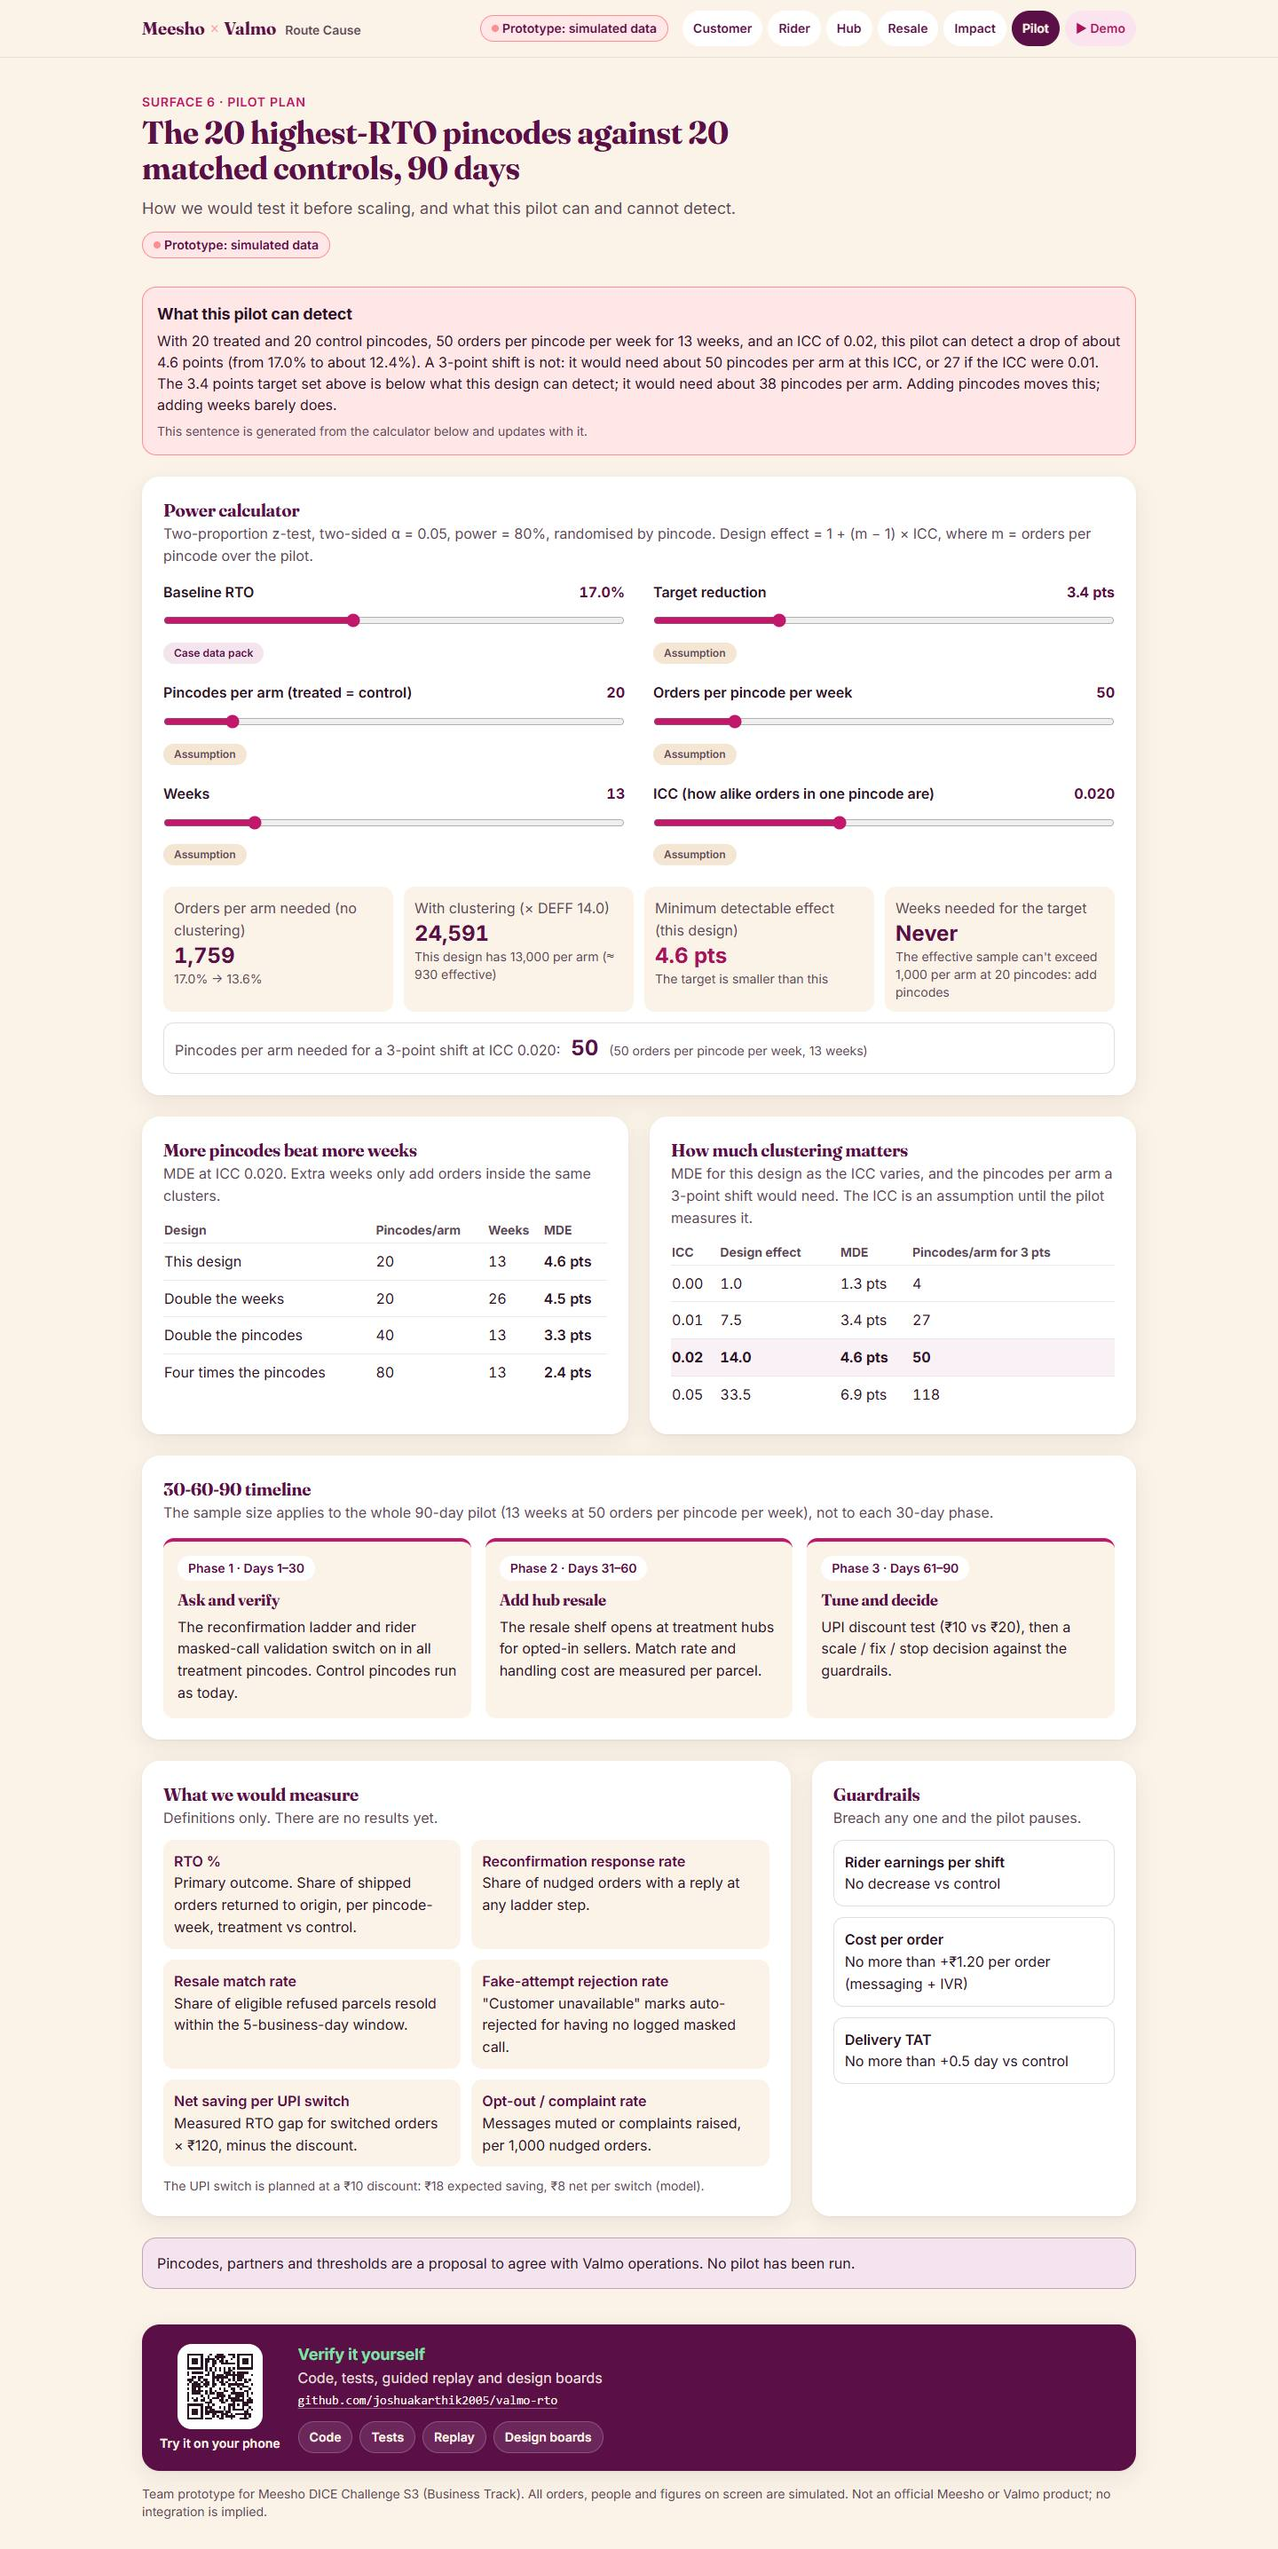
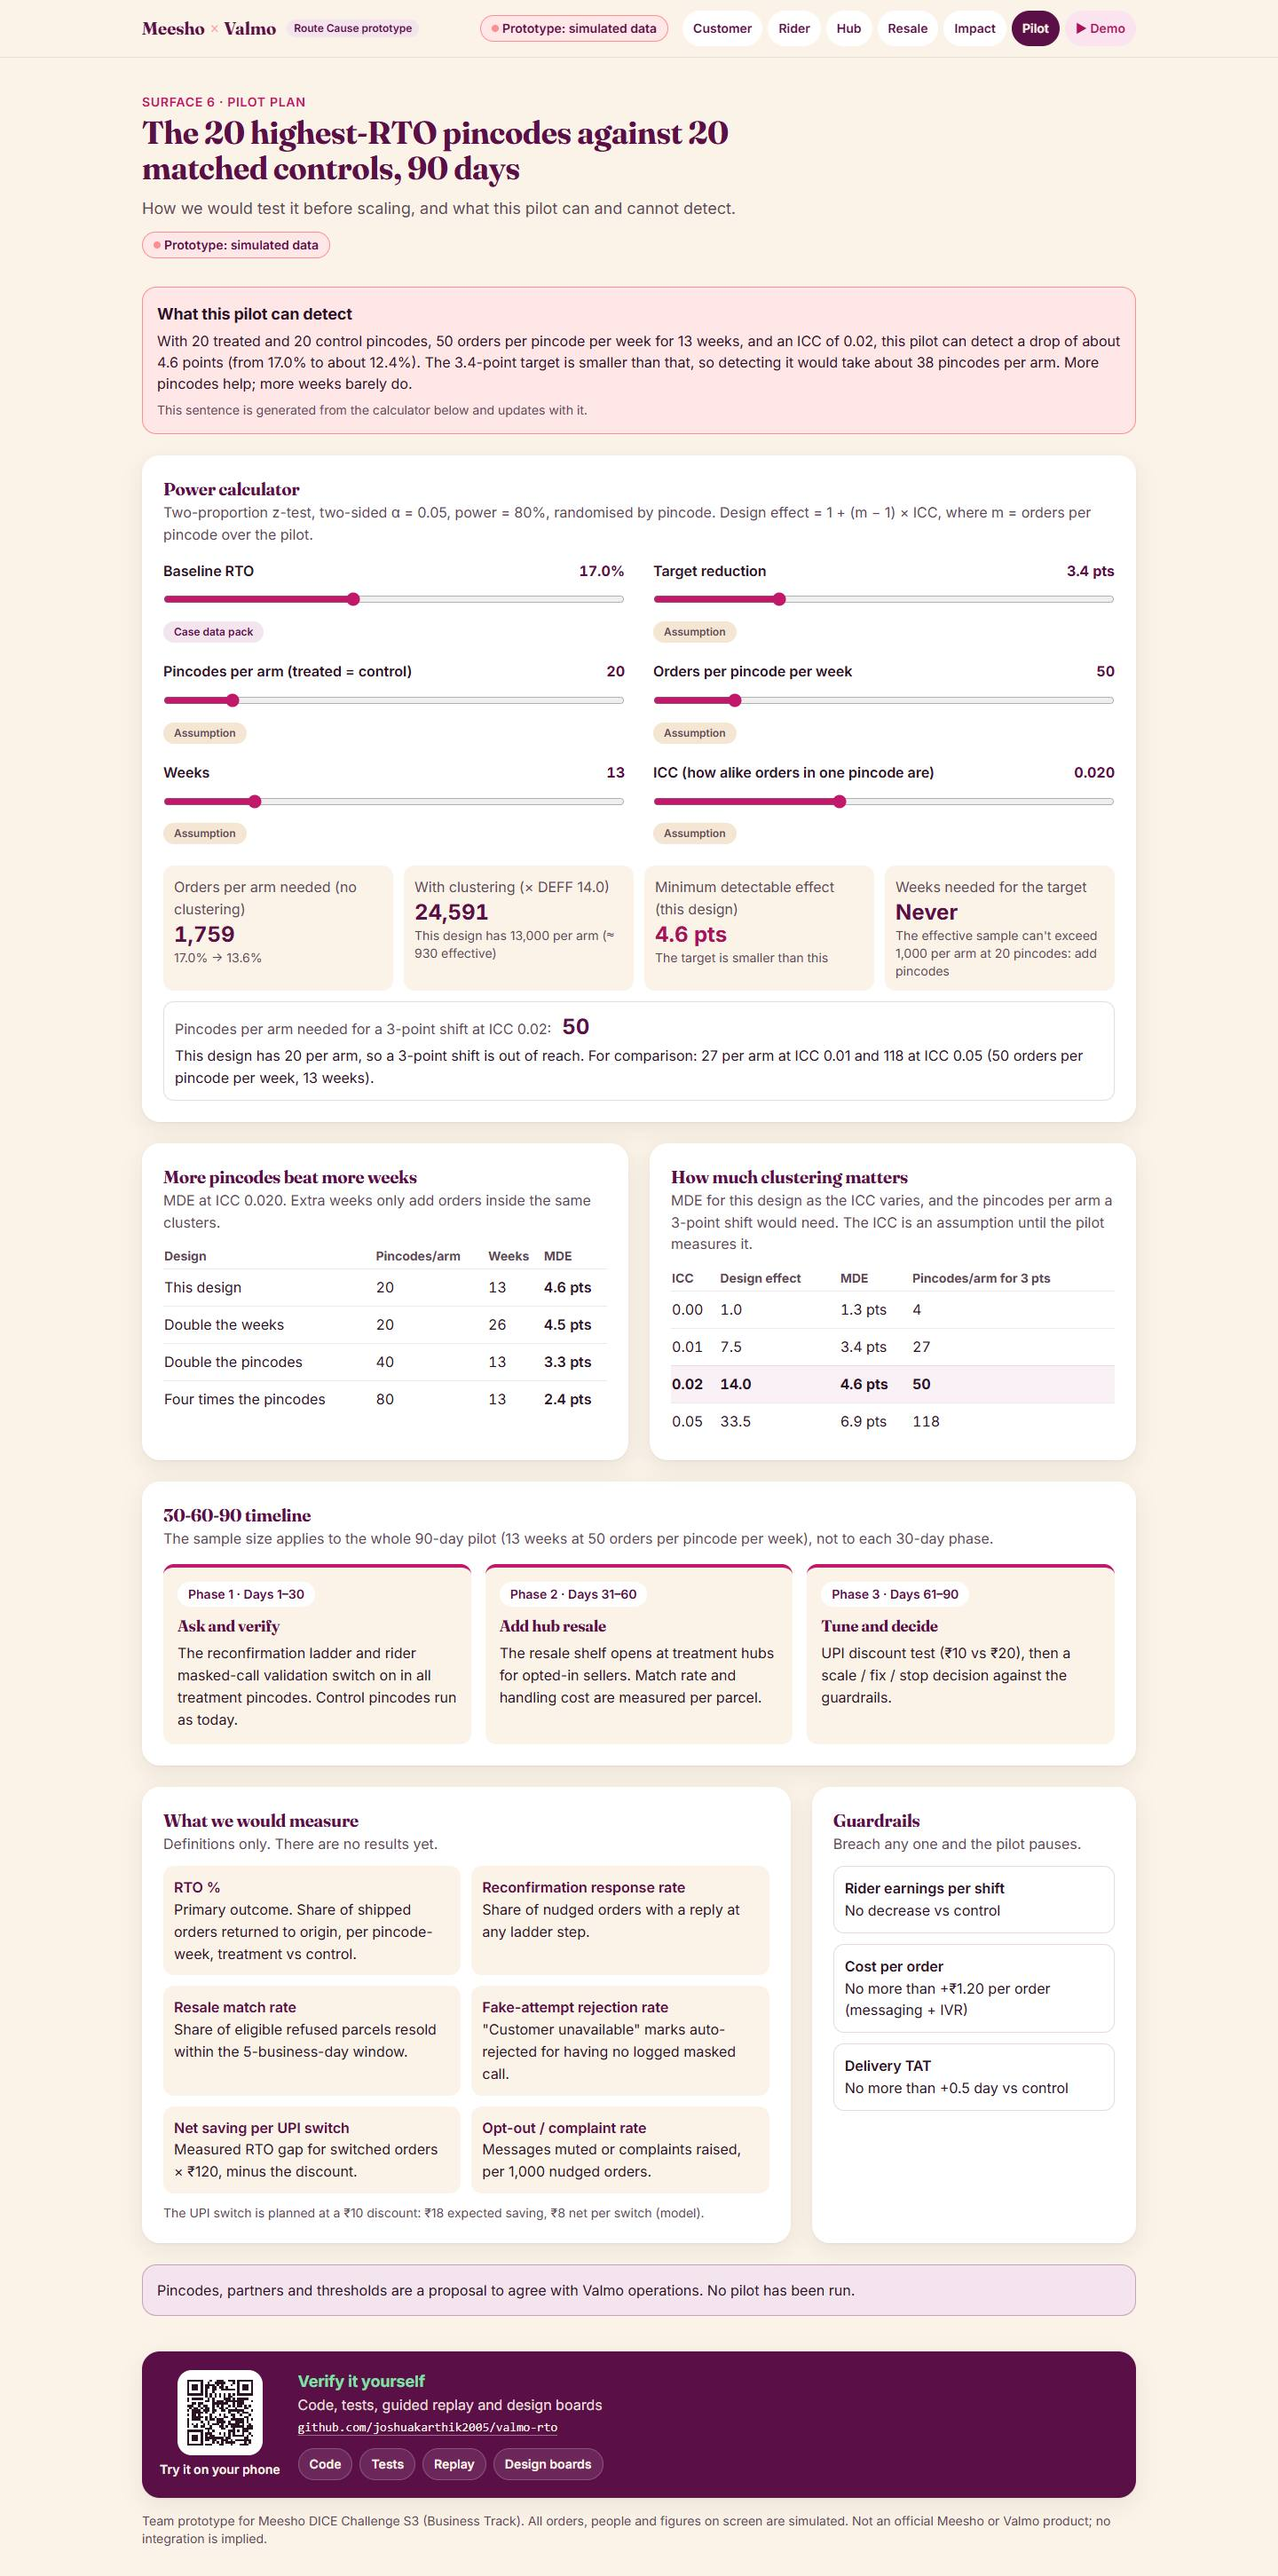
docs: mark F6, F8, F9 and F14 fixed; refreshed tests and pilot screenshots
Claude-Session: https://claude.ai/code/session_012zsJy9Z3iTfje5P7S7dYbZ

diff --git a/docs/audit/FINDINGS.md b/docs/audit/FINDINGS.md
@@ -13,20 +13,20 @@ Each finding is mapped to the v3 item that fixes it, and the Status column shows
 | F3 | `#/pilot` | The "simulated readout" shows invented values (46% response, 12% rejection, 0.8% opt-out, RTO 13.9% against 16.7%) laid out like results. They are labelled simulated, but they read as outcomes. | **A1**: replace them with the metric definitions and the minimum detectable effect, and show synthetic values only as clearly marked examples | ✅ fixed in #6 (A1) |
 | F4 | `#/hub`, `#/rider` | The risk shows as "High · 25.9%", which looks precise but comes from an ad-hoc formula with no explanation. | **A5** | planned (A5) |
 | F5 | `#/impact` | The root-cause chart says "n=20 shopper survey", but its source pill says "Primary research (n=25, small)". The two sample sizes look inconsistent; the 20 shoppers are a subset of the 25 interviews. | Small fix in **A5** | planned (A5) |
-| F6 | `/legacy/`, linked from the README | The preserved v1 page still uses the old ₹170 basis for the UPI switch (₹26 expected). That contradicts the corrected ₹18 everywhere else, and a judge who clicks through will see both. | **A6**: add a "superseded" banner to legacy and correct the README link text | planned (polish PR) |
+| F6 | `/legacy/`, linked from the README | The preserved v1 page still uses the old ₹170 basis for the UPI switch (₹26 expected). That contradicts the corrected ₹18 everywhere else, and a judge who clicks through will see both. | **A6**: add a "superseded" banner to legacy and correct the README link text | ✅ fixed in the polish PR |
 | F7 | `#/rider` | The masked number "+91 80 4213 7130 (masked)" looks like a real dialable number. | Small fix in **A4**: use an obviously fake proxy format | planned (A4) |
 
 ## Confusing, unfinished, or dead ends
 
 | # | Where | Finding | Fix in | Status |
 |---|---|---|---|---|
-| F8 | All pages, 360 px | The surface switcher cuts off "Impact", "Pilot" and "▶ Demo" with nothing to show it scrolls. The two highest-value pages are invisible on a phone. | **A7** | planned (mobile layout PR) |
-| F9 | `#/hub`, 360 px | The orders table scrolls sideways. Risk, nudge status and the SLA timer, which are the point of the page, start off-screen. | **A7**: card layout below `sm` | planned (mobile layout PR) |
+| F8 | All pages, 360 px | The surface switcher cuts off "Impact", "Pilot" and "▶ Demo" with nothing to show it scrolls. The two highest-value pages are invisible on a phone. | **A7** | ✅ fixed in #8 |
+| F9 | `#/hub`, 360 px | The orders table scrolls sideways. Risk, nudge status and the SLA timer, which are the point of the page, start off-screen. | **A7**: card layout below `sm` | ✅ fixed in #8 |
 | F10 | `#/demo`, step 1 | The demo embeds the landing page, so a second "Play the demo" button and a second Verify card appear inside it. | **A7**: demo-specific intro panel | planned (A7) |
 | F11 | `#/demo` | The timer keeps advancing while a judge interacts with the embedded surface, so the step changes under their cursor. | **A7**: pause on interaction | planned (A7) |
 | F12 | `#/resale` | The buyer's "Buy now" button does nothing. The seller's opt-in checkbox has no effect. | **A4** covers "resale buyer cancels" and the buyer path. **B2** covers the seller view | planned (A4, B2) |
 | F13 | `#/hub` | "Override" on a flagged mark only changes a line of text, and the decision isn't reflected anywhere else. | **A4** | planned (A4) |
-| F14 | Header | The "Meesho × Valmo" wordmark could be read as official co-branding. The disclaimer is only in the footer. | Your call. Option: add "Team prototype" next to the wordmark | planned (polish PR) |
+| F14 | Header | The "Meesho × Valmo" wordmark could be read as official co-branding. The disclaimer is only in the footer. | Your call. Option: add "Team prototype" next to the wordmark | ✅ fixed in the polish PR |
 
 ## Missing pieces an evaluator will ask about
 

diff --git a/docs/tests.md b/docs/tests.md
@@ -76,7 +76,7 @@ Every figure in the submitted deck is asserted exactly in `src/lib/model.test.ts
 ## End-to-end smoke (Playwright, 360 / 768 / 1440 px)
 
 ```
-60 passed (33.7s)
+69 passed (43.2s)
 ```
 
 Screenshots: [docs/screens](./screens).
